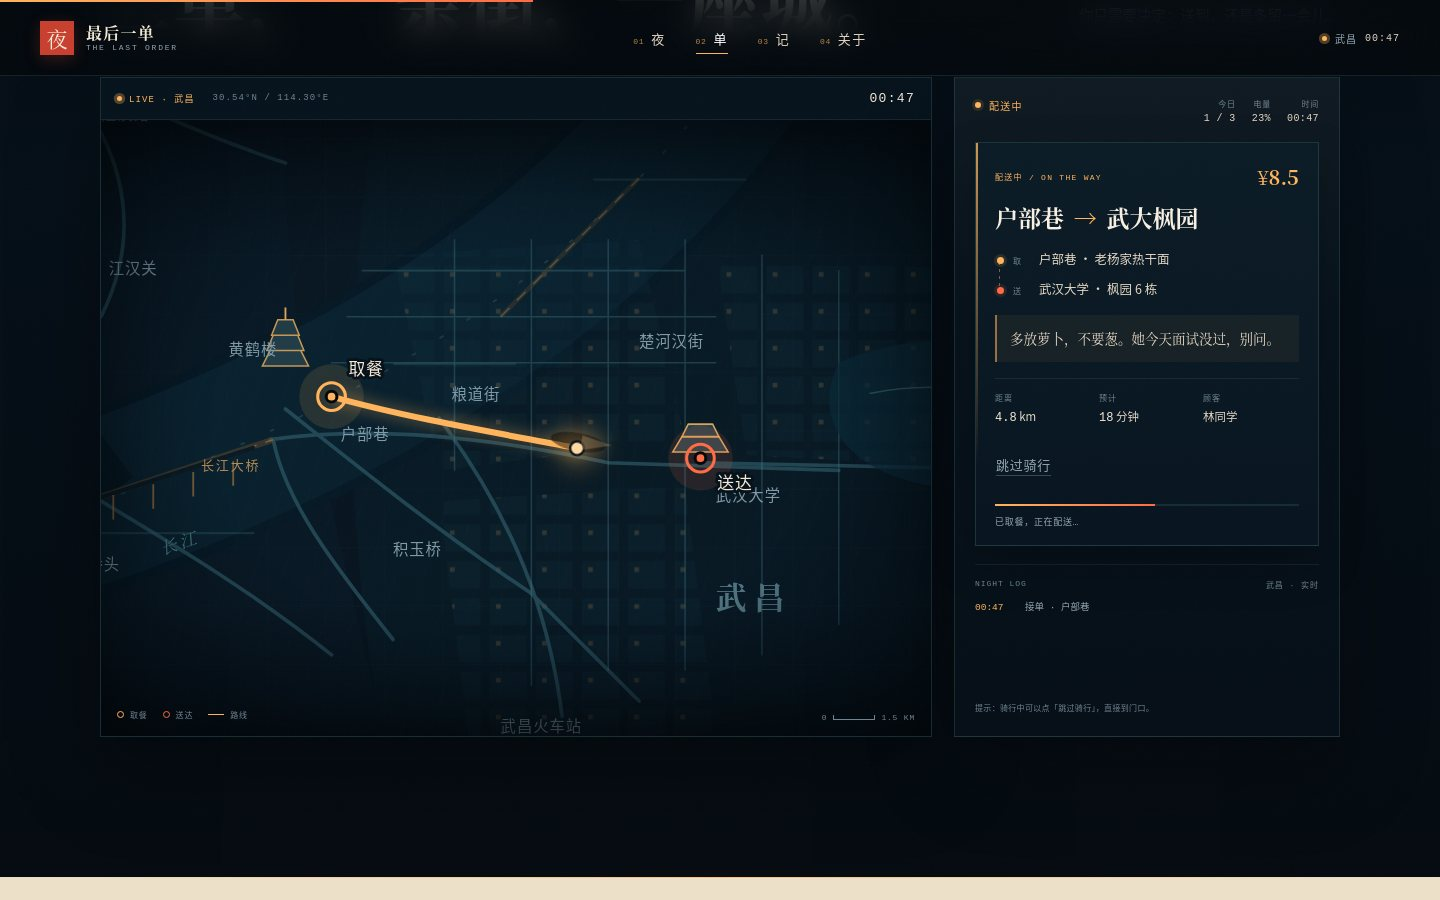
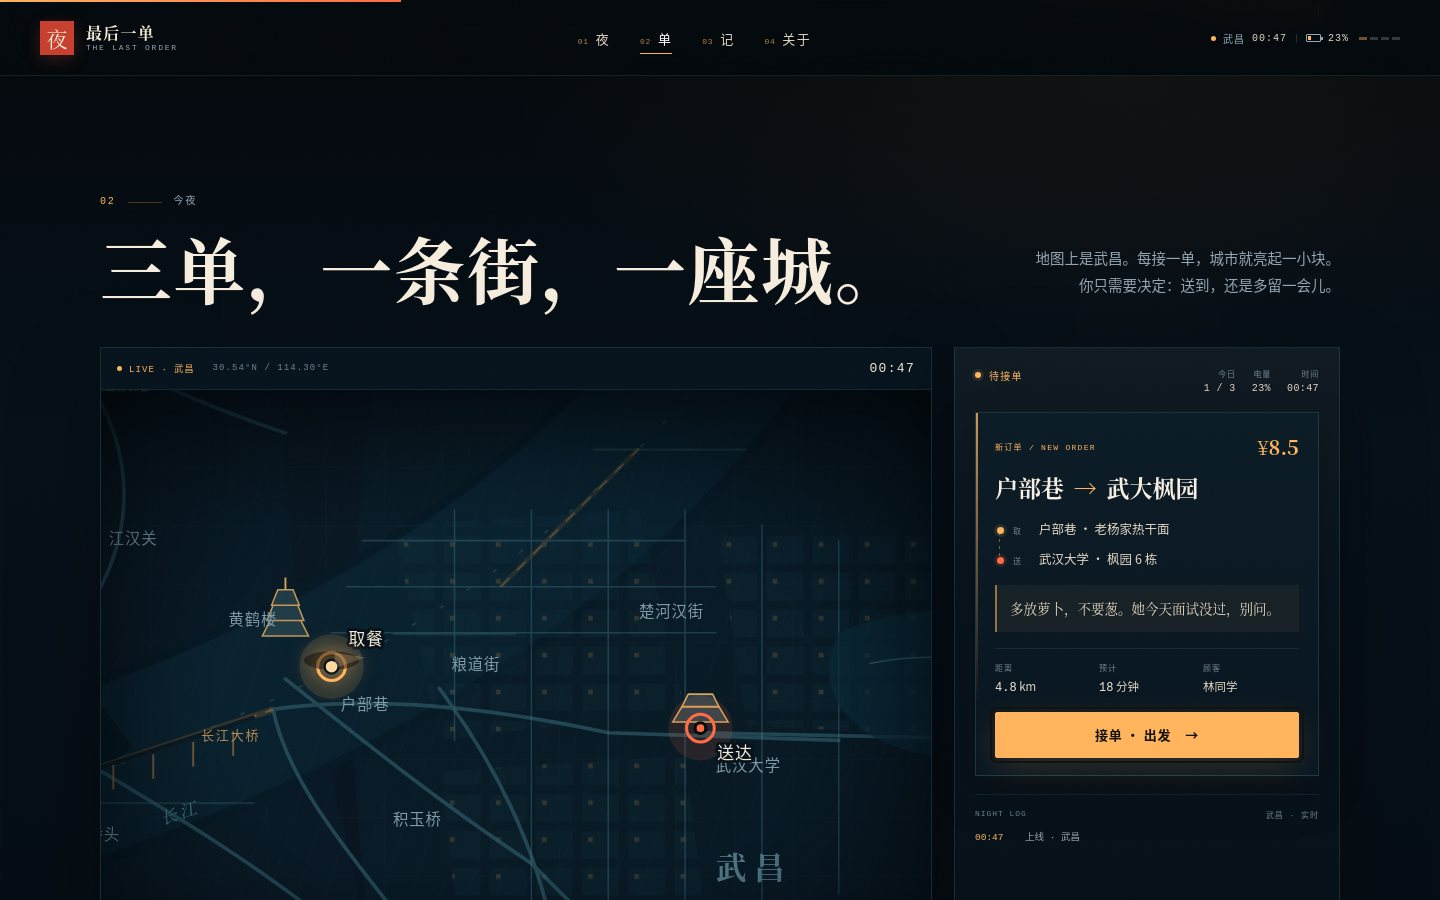
feat: 顶栏做成实时夜班状态，时间电量与四格进度随订单推进

diff --git a/assets/js/app.js b/assets/js/app.js
@@ -20,6 +20,11 @@
 
   var el = {
     head: $("#siteHead"),
+    headStatus: $("#headStatus"),
+    headClock: $("#headClock"),
+    headBattery: $("#headBattery"),
+    headBatteryBar: $("#headBatteryBar"),
+    headOrders: $("#headOrders"),
     progress: $("#scrollProgress"),
     startBtn: $("#startBtn"),
     mapFrame: $("#mapFrame"),
@@ -167,6 +172,7 @@
     el.orderCard.classList.remove("is-finished");
     showPins(order);
     setScooterStart(order);
+    renderHeadStatus();
     if (opts.focus !== false) focusOrder(order);
   }
 
@@ -493,6 +499,7 @@
       var first = el.sceneChoices.querySelector("button");
       if (first) first.focus();
     }, 120);
+    renderHeadStatus();
     renderTimeline();
   }
 
@@ -523,6 +530,7 @@
     el.sceneNext.innerHTML = (order.id === "o4" ? "收工" : "继续送单") + '<span class="arrow" aria-hidden="true">→</span>';
     el.sceneChoices.hidden = true;
     el.sceneResult.hidden = false;
+    renderHeadStatus();
     renderNotes();
     renderTimeline();
     setTimeout(function () {
@@ -584,6 +592,7 @@
       }
     };
     saveStore();
+    renderHeadStatus();
     renderSummary(night);
     renderNotes();
     renderTimeline();
@@ -691,6 +700,7 @@
       addLog(DATA.meta.startTime, "上线 · 武昌");
       renderTimeline();
     }
+    renderHeadStatus();
     document.getElementById("ride").scrollIntoView({ behavior: reduceMotion ? "auto" : "smooth", block: "start" });
     el.acceptBtn.classList.remove("is-pulse");
     void el.acceptBtn.offsetWidth;
@@ -699,6 +709,35 @@
       el.acceptBtn.classList.remove("is-pulse");
       el.acceptBtn.focus({ preventScroll: true });
     }, 1400);
+  }
+
+  /* ---------------- 顶栏夜班状态 ---------------- */
+  // 顶栏不是装饰：时间、电量与四格送单进度跟着这一夜一起走。
+  function renderHeadStatus() {
+    if (!el.headStatus) return;
+    var order = state.started ? currentOrder() : orders[0];
+    if (!order) order = orders[0];
+    var archive = !state.started && !!store.last;
+    var time = archive ? DATA.meta.endTime : order.time;
+    if (state.phase === "scene" || state.phase === "scene-result") time = order.scene.time;
+    if (state.phase === "summary" || state.phase === "done") time = DATA.meta.endTime;
+
+    var battery = archive ? "9%" : batteryFor(order);
+    var pct = parseInt(battery, 10) || 0;
+    el.headClock.textContent = time;
+    el.headBattery.textContent = battery;
+    el.headBatteryBar.style.width = pct + "%";
+    el.headBatteryBar.parentNode.classList.toggle("is-low", pct <= 12);
+
+    var done = archive ? 4 : state.tickets.length;
+    var showNow = !archive && state.started && state.phase !== "summary" && state.phase !== "done" && done < 4;
+    $$("i", el.headOrders).forEach(function (tick, index) {
+      tick.classList.toggle("is-on", index < done);
+      tick.classList.toggle("is-now", showNow && index === done);
+    });
+
+    el.headStatus.setAttribute("aria-label",
+      "夜班状态：武昌，" + time + "，电量 " + battery + "，已送达 " + done + " 单");
   }
 
   /* ---------------- 小票与日志 ---------------- */

diff --git a/assets/css/main.css b/assets/css/main.css
@@ -205,7 +205,7 @@ button, a { -webkit-tap-highlight-color: transparent; }
 .head-status {
   display: flex;
   align-items: center;
-  gap: 8px;
+  gap: 7px;
   flex: none;
   font-family: var(--mono);
   font-size: 10px;
@@ -221,9 +221,76 @@ button, a { -webkit-tap-highlight-color: transparent; }
   box-shadow: 0 0 0 0 rgba(255, 180, 92, .6);
   animation: livePulse 2.6s infinite;
 }
+.hs-sep {
+  width: 1px;
+  height: 9px;
+  margin: 0 2px;
+  background: currentColor;
+  opacity: .22;
+}
+.hs-batt {
+  position: relative;
+  display: inline-flex;
+  align-items: center;
+  width: 15px;
+  height: 8px;
+  padding: 1px;
+  border: 1px solid currentColor;
+  border-radius: 1px;
+  color: var(--muted);
+}
+.hs-batt::after {
+  content: "";
+  position: absolute;
+  top: 2px;
+  right: -3px;
+  width: 2px;
+  height: 3px;
+  background: currentColor;
+}
+.hs-batt i {
+  display: block;
+  height: 100%;
+  width: 23%;
+  background: var(--amber);
+  transition: width .5s var(--ease), background .35s;
+}
+.hs-batt.is-low i { background: #e0715b; }
+.hs-orders {
+  display: flex;
+  align-items: center;
+  gap: 3px;
+  margin-left: 3px;
+}
+.hs-orders i {
+  display: block;
+  width: 8px;
+  height: 3px;
+  background: currentColor;
+  opacity: .3;
+  transition: background .35s, opacity .35s;
+}
+.hs-orders i.is-on {
+  background: var(--amber);
+  opacity: 1;
+  box-shadow: 0 0 6px rgba(255, 180, 92, .45);
+}
+.hs-orders i.is-now {
+  background: var(--amber);
+  opacity: .42;
+  box-shadow: none;
+}
 .site-head.is-paper .head-status { color: #7c6950; }
 .site-head.is-paper .head-status b { color: #1c1711; }
 .site-head.is-paper .head-status .dot { background: var(--red); animation: none; }
+.site-head.is-paper .hs-orders i.is-on { background: var(--red); box-shadow: none; }
+.site-head.is-paper .hs-orders i.is-now { background: var(--red); opacity: .4; }
+.site-head.is-paper .hs-batt i { background: var(--red); }
+.site-head.is-paper .hs-batt.is-low i { background: #9b2f22; }
+
+@media (prefers-reduced-motion: reduce) {
+  .hs-batt i, .hs-orders i { transition: none; }
+}
 
 @keyframes livePulse {
   0% { box-shadow: 0 0 0 0 rgba(255, 180, 92, .55); }

diff --git a/index.html b/index.html
@@ -28,7 +28,15 @@
       <a href="#notes" data-nav="notes"><i>03</i>记</a>
       <a href="#about" data-nav="about"><i>04</i>关于</a>
     </nav>
-    <div class="head-status"><span class="dot" aria-hidden="true"></span><span>武昌</span><b>00:47</b></div>
+    <div class="head-status" id="headStatus" role="group" aria-label="夜班状态：武昌，00:47，电量 23%，已送达 0 单">
+      <span class="dot" aria-hidden="true"></span>
+      <span class="hs-place">武昌</span>
+      <b id="headClock">00:47</b>
+      <span class="hs-sep" aria-hidden="true"></span>
+      <span class="hs-batt" aria-hidden="true"><i id="headBatteryBar"></i></span>
+      <b id="headBattery">23%</b>
+      <span class="hs-orders" id="headOrders" aria-hidden="true"><i></i><i></i><i></i><i></i></span>
+    </div>
   </header>
 
   <main>

diff --git a/STATE.md b/STATE.md
@@ -64,6 +64,7 @@
 - [x] 选择真正留在小票上：场景小票、四张存档小票、收工纸票与 Canvas PNG 都带「你 · …」；刷新后仍在（第 25 轮）
 - [x] 锚点落到纸面时顶栏切纸色、暗缝收掉：`scroll-padding-top` 与 `is-paper` 阈值按实际头高计算（第 25 轮）
 - [x] 最后一次选择写进收工纸票落款：「是妈下的」/「是回家」，Canvas PNG 同步（第 26 轮）
+- [x] 顶栏成为夜班状态条：时间 00:47→02:52、电量 23%→9%、四格进度随送达点亮，纸色区转朱红；刷新后停在上一夜收工状态（第 27 轮）
 - [ ] 真实手机 / 真实 Chrome 129 走查
 - [x] `scripts/pack.sh` 实跑：完整版含 progress，匿名版无占位符/个人信息，两个 zip 可直接打开
 - [ ] 可选：分享文案 / URL 还原 / 环境声（默认关闭）
@@ -105,11 +106,12 @@
 | 11-05 | 选择以 `short` 短标签写进四张小票 | 场景脚注承诺「选择会留在小票上」，但此前只存进 `choices`、纸面看不到；完整标签太长会破坏票据节奏，短标签随数据一起维护 |
 | 11-05 | 锚点纸色阈值改为「头高 + 24」，`scroll-padding-top` 改为头高 | 原 70px 阈值与 96px 滚动留白让「记」锚点落在纸面时顶栏仍是深色，且留下 20px 暗缝；按实际头高对齐后纸面从顶栏下开始 |
 | 11-05 | 收工纸票落款由第四单门口的选择决定 | 四次选择此前只以小标签留在票面，结尾仍是固定句；让最后的选择改写落款（「是妈下的」/「是回家」），「最后一单」的揭示才真正落在纸面上；同时同步 Canvas PNG，不新增高度 |
+| 11-05 | 顶栏从静态「武昌 00:47」改为实时夜班状态 | 跑完整夜后顶栏仍停在起点，和地图 / 小票的时间互相矛盾；让时间、电量、四格进度一起走，刷新时停在第 1 夜收工态，开场时回到 00:47 |
 
 ## 七、当前阶段 & 下一步
 
-**可上线状态**：目录即站点，`index.html` 直接打开可玩，push 即部署。第 19 轮完成完全重构，第 20 轮完成打包实跑与收工小票背景光，第 21 轮补齐第一段场景的两人共伞，第 22 轮补齐后三段场景细部并把四段场景截图纳入回归，第 23 轮补 1440×720 矮横屏首屏断点并实拍复核 390 场景，第 24 轮给地图补指北针与比例尺中刻度并把两者纳入回归，第 25 轮把每单的选择写进场景小票、存档小票、收工纸票与 PNG，并修掉纸面锚点的顶栏配色与暗缝；第 26 轮让第四单门口的选择决定纸票落款（「最后一单，是妈下的。」/「最后一单，是回家。」），Canvas PNG 同步。`node scripts/regression.mjs` 在 1920 / 1440 / 720 / 390 全部通过，1440 与 390 各跑完整一夜，1440×720 另跑首屏断言。
+**可上线状态**：目录即站点，`index.html` 直接打开可玩，push 即部署。第 19 轮完成完全重构，第 20 轮完成打包实跑与收工小票背景光，第 21 轮补齐第一段场景的两人共伞，第 22 轮补齐后三段场景细部并把四段场景截图纳入回归，第 23 轮补 1440×720 矮横屏首屏断点并实拍复核 390 场景，第 24 轮给地图补指北针与比例尺中刻度并把两者纳入回归，第 25 轮把每单的选择写进场景小票、存档小票、收工纸票与 PNG，并修掉纸面锚点的顶栏配色与暗缝；第 26 轮让第四单门口的选择决定纸票落款（「最后一单，是妈下的。」/「最后一单，是回家。」），Canvas PNG 同步。第 27 轮把顶栏做成实时夜班状态：时间、电量、四格送单进度随订单推进，进入纸色小票区转朱红，刷新后停在上一夜收工状态。`node scripts/regression.mjs` 在 1920 / 1440 / 720 / 390 全部通过，1440 与 390 各跑完整一夜，1440×720 另跑首屏断言。
 
-**下一步**：① 真实 Chrome 129 + 真实手机走查并记录；② 801–860px 高度过渡带已抽查 1440×820 / 860，首屏四层完整，无需改断点，留作实机复核；③ 可选：分享文案 / URL 还原 / 环境声默认关闭；④ 可选：第二夜换一组订单，让「再跑一夜」有内容上的差别。
+**下一步**：① 真实 Chrome 129 + 真实手机走查并记录；② 可选：分享文案 / URL 还原 / 环境声默认关闭；③ 可选：第二夜换一组订单，让「再跑一夜」有内容上的差别；④ 981 / 1000px 窄桌面顶栏已实拍不重叠，留作实机复核。
 
 > 旧版《等一碗》的完整实现保留在 git 历史中；当前工作树只保留新版。

diff --git a/README.md b/README.md
@@ -54,6 +54,7 @@
 - **地图**：一张可缩放的夜间示意地图；道路、江面、桥、地标全部为 SVG；路线是唯一的高饱和琥珀色。
 - **纸**：只有「小票」是纸——顾客留言、收工小票、按钮回执都落在纸色上，和夜里的屏幕形成对照。
 - **动效**：地图运镜、路线绘制、电动车沿路径移动、场景淡入、小票落下；`prefers-reduced-motion` 下全部关闭。
+- **顶栏**：不是静态标签。时间从 00:47 走到 02:52、电量从 23% 掉到 9%、四格送单进度随送达点亮，当前单留一格半亮的琥珀；进入纸色小票区时整组转成朱红。
 - **不用的东西**：不做跑马灯、不做满屏渐变、不用图库照片、不用预设样式库。
 
 ### 结构
@@ -73,7 +74,7 @@
 
 ### 交互
 
-- **接单**：每单显示取餐点、送达点、距离、配送费与顾客留言；点「接单 · 出发」后，地图自动缩放到这一单的路线。
+- **接单**：每单显示取餐点、送达点、距离、配送费与顾客留言；点「接单 · 出发」后，地图自动缩放到这一单的路线，顶栏时间与电量同步推进。
 - **骑行**：路线按长度绘制，电动车沿路径移动；经过取餐点会停一下、弹出「取餐完成」，再继续送到门口。可以点「跳过骑行」。
 - **门口**：四段场景，每段两个选择。选择改变收尾的一句话，并把「你 · 会好的」这样一行留在小票上；不改变订单结果。每单留下一张顾客留言小票。四段插画各有可读的细部：雨里共伞的两个人、桥下烧烤袋的热气、只开一条缝的门与门口的垃圾袋、妈妈手里的汤勺和早摆好的第二副碗筷。最后一单门口的选择还会改写纸票的落款。
 - **收工**：四单之后自动生成一张「今夜收工」纸票，统计 4 单 / 19.5 公里 / 36.5 元，列出四张留言与四次选择；落款由最后一次选择决定——「最后一单，是妈下的。」或「最后一单，是回家。」可以「存下这张小票」为 PNG（选择与落款一起画进去）。
@@ -104,11 +105,11 @@ python3 -m http.server 8080 &
 node scripts/regression.mjs
 ```
 
-脚本会检查 1920 / 1440 / 720 / 390 四档的横向溢出，在 1440 与 390 各跑完一整夜（接单 → 跳过骑行 → 场景 → 二选一 → 小票 → 回家加单 → 收工小票 → 再跑一夜），断言地图面板、场景层、小票上的选择、localStorage 与控制台；另跑 1440×720 矮横屏首屏断言，并复核锚点落到纸面时顶栏切换纸色。截图输出到 `/tmp/lastorder-shots`。若 Chrome 不在常见路径，用 `CHROME=/path/to/chrome node scripts/regression.mjs` 指定；只跑移动端可加 `ONLY=mobile`，只跑桌面完整一夜可加 `ONLY=desktop`。
+脚本会检查 1920 / 1440 / 720 / 390 四档的横向溢出，在 1440 与 390 各跑完一整夜（接单 → 跳过骑行 → 场景 → 二选一 → 小票 → 回家加单 → 收工小票 → 再跑一夜），断言地图面板、场景层、小票上的选择、顶栏时间 / 电量 / 四格进度、localStorage 与控制台；另跑 1440×720 矮横屏首屏断言，并复核锚点落到纸面时顶栏切换纸色。截图输出到 `/tmp/lastorder-shots`。若 Chrome 不在常见路径，用 `CHROME=/path/to/chrome node scripts/regression.mjs` 指定；只跑移动端可加 `ONLY=mobile`，只跑桌面完整一夜可加 `ONLY=desktop`。
 
 ### 体积预算
 
-站点只有 4 个文本文件，合计约 158KB（gzip 后约 39KB），首屏 0 张图片、0 个外部字体、0 个第三方脚本：
+站点只有 4 个文本文件，合计约 162KB（gzip 后约 41KB），首屏 0 张图片、0 个外部字体、0 个第三方脚本：
 
 | 资源 | 原始 | gzip |
 |---|---|---|

diff --git a/BACKLOG.md b/BACKLOG.md
@@ -30,6 +30,7 @@
 - [x] 地图指北针 + 比例尺中刻度（第 24 轮）
 - [x] 场景小票 / 四张存档小票 / 收工纸票 / PNG 都带「你 · 选择」短标签（第 25 轮）
 - [x] 收工纸票落款随第四单选择改变，PNG 同步（第 26 轮）
+- [x] 顶栏实时夜班状态：时间 / 电量 / 四格进度，纸色区转朱红，刷新停在上夜收工态（第 27 轮）
 - [x] 纸面锚点顶栏切纸色，收掉 20px 暗缝（第 25 轮）
 
 ## P2 · 功能 20
@@ -53,12 +54,14 @@
 - [x] CDP 零依赖回归：四尺寸、完整一夜、场景层、小票、存档
 - [x] 地图相机按容器宽高比重新计算 `viewBox`
 - [x] `prefers-reduced-motion` 关闭地图雨 / 路线绘制 / 场景动效
-- [x] 体积预算：4 个文本文件约 158KB，gzip 约 39KB
+- [x] 体积预算：4 个文本文件约 162KB，gzip 约 41KB
 - [x] 四段场景截图（1440 / 390）纳入回归，等淡入结束再拍（第 22 轮）
 - [x] 1440×720 矮横屏首屏断言：标题量级、入口、信息行、路线条（第 23 轮）
 - [x] 指北针 / 比例尺画框内断言（第 24 轮）
 - [x] 选择落纸 + 刷新保留 + 纸色顶栏断言（第 25 轮）
+- [x] 顶栏时间 / 电量 / 四格进度与刷新存档态断言（第 27 轮）
 - [ ] 真实 Chrome 129 / 真实手机走查
+- [x] 981–1100px 窄桌面顶栏三组占位实拍复核（981 / 1000px 不重叠）
 - [ ] Safari / Firefox 非目标兼容性记录
 
 ## P4 · 文档 5
@@ -69,6 +72,7 @@
 - [x] 四段场景细部说明与体积数字同步（第 22 轮）
 - [x] 选择落纸说明、体积与截图同步（第 25 轮）
 - [x] 落款随选择改变写入 README / design.md，总结截图重拍（第 26 轮）
+- [x] 顶栏状态写入 README / design.md，三张 1440 截图重拍（第 27 轮）
 - [x] STATE / BACKLOG / progress 同步
 - [x] scripts/regression.mjs 重写为新流程
 - [x] `scripts/pack.sh` 空目录实跑一次：两包内容与匿名化已核对

diff --git a/docs/design.md b/docs/design.md
@@ -54,6 +54,7 @@
 ```
 
 - 顶部导航编号 01–04，滚动时高亮；`scroll-padding-top` 保证锚点不被吸顶导航盖住。
+- 顶栏右侧是一条实时的夜班状态：时间 00:47 → 02:52、电量 23% → 9%、四格进度随送达点亮，当前单为半亮琥珀；这一组信息在纸色小票区转成朱红。
 - 送单区是「地图 + 骑手面板」的双栏：左边是舞台，右边是订单、进度、日志。移动端把面板提到地图之前，先让人接到单，再看到地图。
 - 小票区是浅色纸面，和上下的夜色形成一次明确的呼吸；顶部导航在这一段切换为纸色主题。
 
@@ -108,7 +109,7 @@
 - **地图**：SVG `getBBox()` / `getPointAtLength()` / `requestAnimationFrame`；没有地图库、没有 Canvas 地图。
 - **存档**：`localStorage`；读取时校验，写入失败静默降级。
 - **导出**：Canvas 2D 手绘小票，`toBlob` 下载；无第三方库。
-- **性能**：首屏无图片、无外部字体、无第三方脚本；全部图形内联 SVG；站点 4 个文本文件约 158KB，gzip 约 39KB；动效不阻塞首屏；`defer` 加载脚本。
+- **性能**：首屏无图片、无外部字体、无第三方脚本；全部图形内联 SVG；站点 4 个文本文件约 162KB，gzip 约 41KB；动效不阻塞首屏；`defer` 加载脚本。
 - **兼容**：Chrome 129；使用 `clamp`、`svh`、`text-wrap: balance`、`backdrop-filter`、`getPointAtLength` 等稳定特性；无 ES module，`file://` 可打开。
 
 ## 8. 适配策略

diff --git a/progress/2026-11-05.md b/progress/2026-11-05.md
@@ -156,3 +156,11 @@
 - 验证：全量回归通过（1920 / 1440 / 720 / 390，1440 与 390 各完整一夜，1440×720 首屏）；新增落款断言「最后一单，是妈下的。」；实拍 1440 / 390 收工小票，390 不越界。
 - 文档：README / design.md 同步落款规则，重拍 `summary-1440.jpg`；STATE / BACKLOG 勾掉「最后一单，是回家」的收束句。
 - 遗留：真实 Chrome 129 / 手机走查；第二夜换一组订单仍是可选。
+
+# 2026-11-05 · 第 27 轮 · 顶栏成为夜班状态条
+
+- 目标：顶栏右侧一直写着「武昌 00:47」，跑完整夜仍停在起点；让这条状态跟着订单走。
+- 设计：时间从 00:47 到 02:52、电量从 23% 到 9%（最后一单 9% 转暖红）、四格送单进度随送达点亮，当前单留一格半亮琥珀；进入纸色小票区时整组转朱红。
+- 技术：新增 `renderHeadStatus()`，由 `renderOrder` / 开场 / 选择 / 收工四处驱动；`aria-label` 同步为「时间 / 电量 / 已送达 N 单」，不改状态机与存档。
+- 验证：`ONLY=desktop` 通过；新增「02:41 / 9% / 三格亮 + 加单半亮」「收工 02:52 / 9% / 四格全亮」与无障碍文本三组断言。
+- 文档：README / design.md 同步顶栏行为；重拍首屏 / 送单 / 小票三张 1440 截图。
